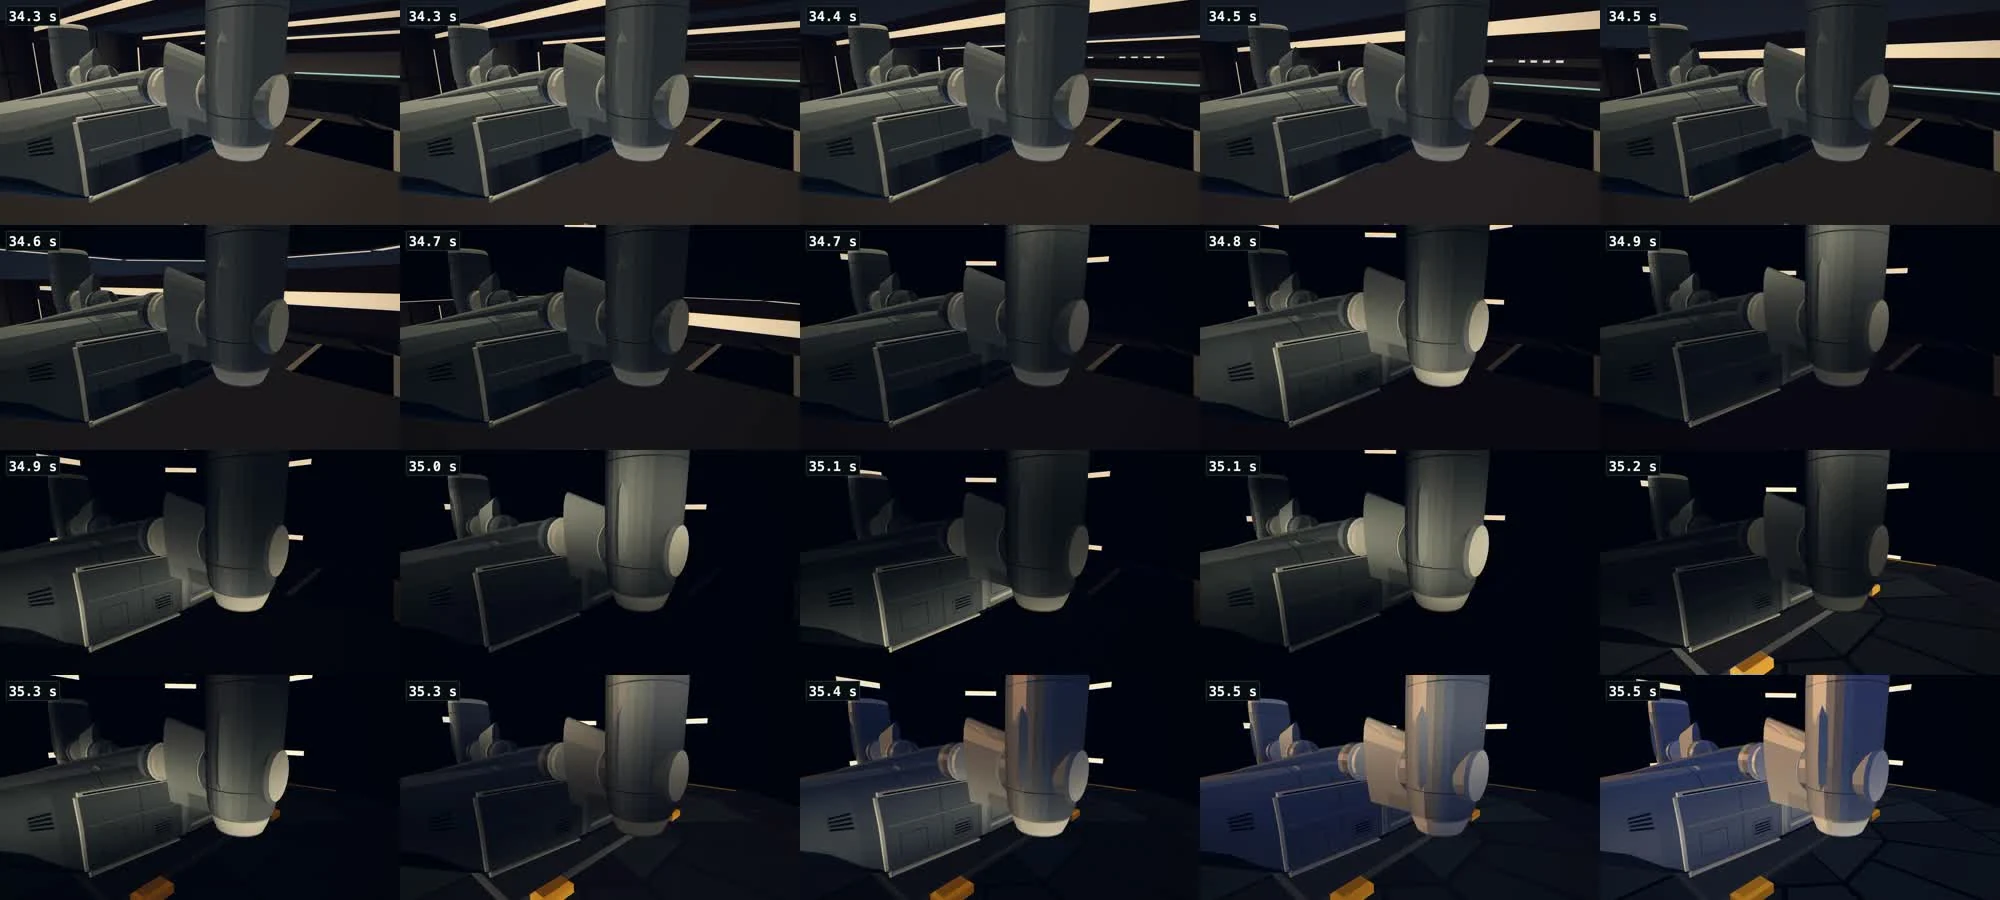
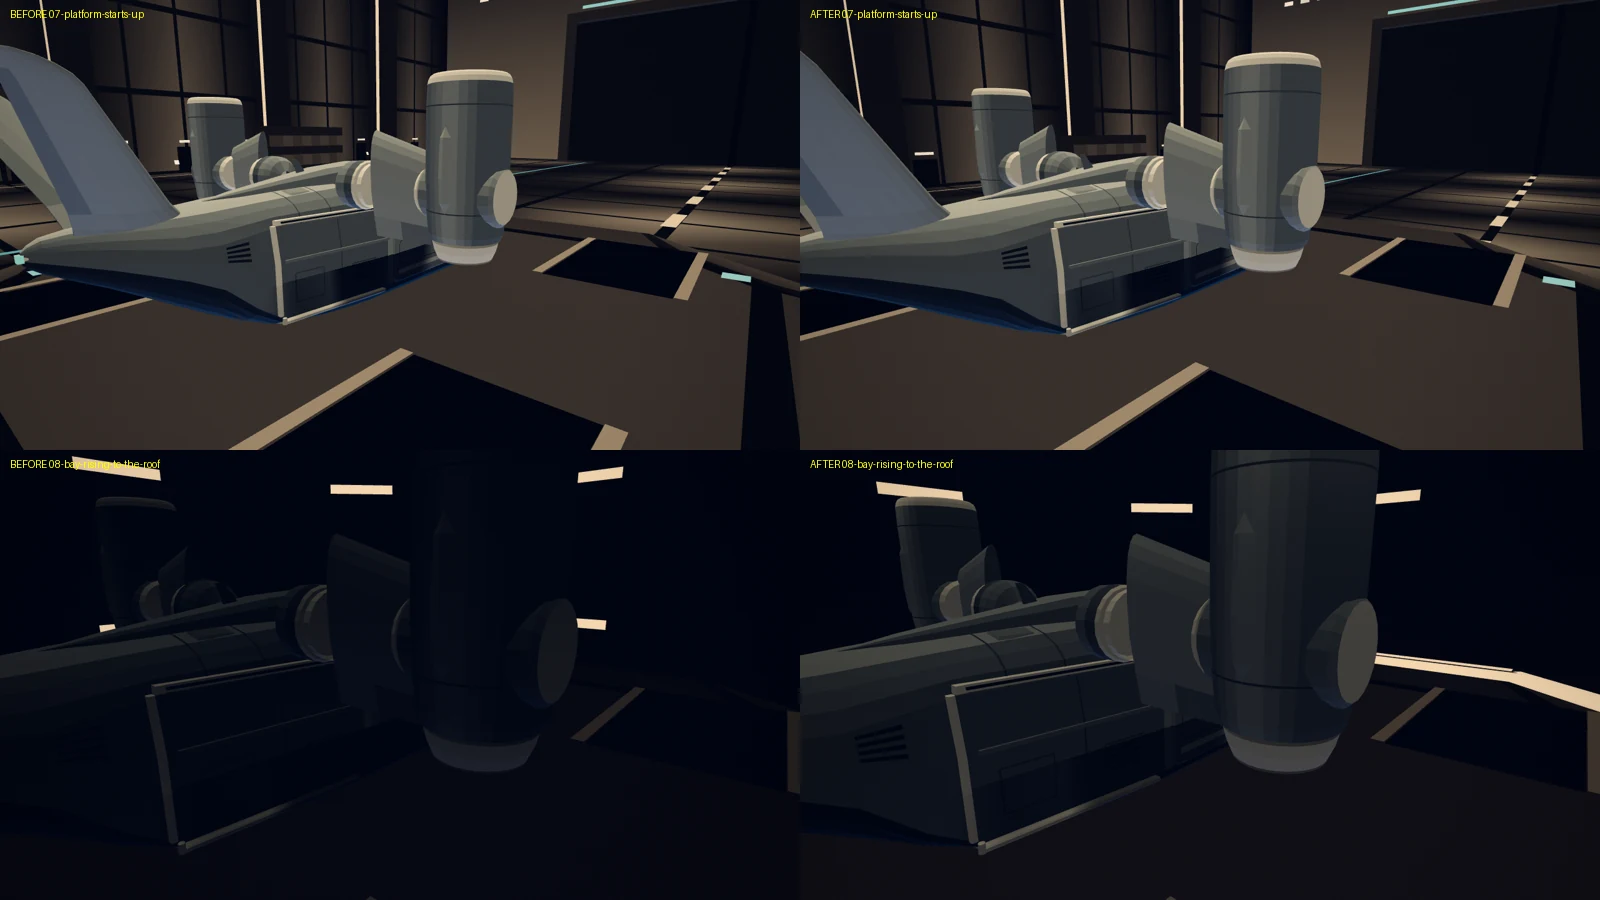
review page v239: Steel Tide: to review

diff --git a/d/steel-tide-clips-bb00109a/index.html b/d/steel-tide-clips-bb00109a/index.html
@@ -4,13 +4,26 @@
 <style>body{margin:0;background:#0d1117;color:#e6edf3;font:16px/1.5 -apple-system,system-ui,sans-serif}main{max-width:900px;margin:0 auto;padding:16px}h1{font-size:20px;margin:8px 0 4px}h2{font-size:17px;margin:34px 0 6px}p{margin:4px 0 10px;color:#9da7b3;font-size:14px}video,img{width:100%;height:auto;background:#000;border-radius:6px;display:block;margin-top:6px}a.b{display:inline-block;margin:8px 8px 0 0;padding:10px 14px;border:1px solid #3d444d;border-radius:6px;color:#e6edf3;text-decoration:none;font-size:14px}.t{font-size:12px;font-weight:400;color:#0d1117;background:#9da7b3;border-radius:10px;padding:2px 8px;margin-left:6px;vertical-align:middle}p.d{color:#7cb7ff;font-size:13px;margin:0 0 6px}nav small{color:#9da7b3;margin-left:6px}p b{color:#e6edf3}nav a{display:block;padding:7px 0;color:#7cb7ff;text-decoration:none;font-size:14px;border-bottom:1px solid #21262d}a.z{display:block;cursor:zoom-in}p.h{font-size:12px;margin:2px 0 8px}#lb{position:fixed;inset:0;background:#000;z-index:9;overflow:auto;display:none;cursor:zoom-in}#lb.on{display:block}#lb img{width:100%;height:100%;object-fit:contain;margin:0;border-radius:0;background:#000}#lb.big{cursor:zoom-out}#lb.big img{width:auto;height:auto;max-width:none;object-fit:none}#lbx{position:fixed;top:10px;right:14px;z-index:10;display:none;font:600 15px system-ui;color:#fff;background:#21262d;border:1px solid #3d444d;border-radius:6px;padding:8px 12px;cursor:pointer}#lb.on+#lbx{display:block}</style></head>
 <body><main>
 <h1>Steel Tide: to review</h1>
-<p>Version 238, 11-21 9:57 PM. Version: elevator lights round 3 (in review); extra hangar Petrels gone (live M408). Newest first. Total 24.9 MB.</p>
-<nav><a href="#lift-passing-lights">Elevator lights light the Petrel as it rises <small>11-21 11:10 PM</small></a><a href="#weapon-icons-round-3">Weapon icons: style A in the game <small>11-21 10:10 PM</small></a><a href="#pilot-gun-clipping">Pilot: carried gun and arms no longer cut into the body (before / after) <small>11-21 10:05 PM</small></a><a href="#hangar-one-petrel">Only your Petrel in the hangar <small>11-21 9:40 PM</small></a><a href="#navy-shell-arc">Navy shells fly one smooth arc <small>11-21 8:37 PM</small></a><a href="#hangar-mech-feet">Hangar mech stands on its cradle <small>11-21 8:37 PM</small></a><a href="#dock-scene-ease">Docking: camera, Petrel glide and lift light <small>11-21 8:37 PM</small></a><a href="#desert-r20-m337-sky">Desert: our sand under yesterday&#x27;s sky <small>11-21 8:37 PM</small></a><a href="#extraction-outro-live">Extraction ending, full outro (live build) <small>11-21 6:35 PM</small></a><a href="#no-black-preload">Mission start: no black screen before the flight <small>11-21 5:05 PM</small></a><a href="#sand-impacts">Desert: shots, landings and footsteps throw up sand <small>11-21 4:55 PM</small></a><a href="#ocean-navy">Ocean navy: fewer, heavier ships; lobbed shells you can see; hull explosions; torpedo wakes <small>11-21 4:47 PM</small></a><a href="#sand-repo-demo">The open-source dune scene we are porting, as it looks in its own demo <small>11-21 4:42 PM</small></a><a href="#roll-chevrons-removed">Old roll and floor dashes removed <small>11-21 2:53 PM</small></a><a href="#unit-ground-shadows">Unit ground shadows back on <small>11-21 1:02 PM</small></a><a href="#pilot-walk-sway">Pilot walk: half the side-to-side sway (before / after) <small>11-21 12:44 PM</small></a><a href="#boss-shading-which-part">Your 8:00 PM report: which part of the boss looked wrong? <small>11-20 10:51 PM</small></a><a href="#new-mech-3d-r2">New mech: first 3D model from your sheet <small>11-19 11:21 PM</small></a><a href="#tactician-r2-s302-clean">Tactician pilot: your pick, smudges cleaned (ready to wire) <small>11-19 10:24 PM</small></a><a href="#vanguard-r2-s302">Vanguard pilot: your pick, six fingers fixed (ready to wire) <small>11-19 10:24 PM</small></a><a href="#cradle-drop-launch-r4">NEEDS YOUR PICK: the drop cannon&#x27;s size on the Cradle (three sizes), with its back hidden and navy colour <small>11-18 7:43 PM</small></a><a href="#horde-pilot-zoom">NEEDS YOUR CALL: island Horde, camera zooms in when you are on foot <small>11-17 1:30 PM</small></a></nav>
-<section id="lift-passing-lights"><h2>Elevator lights light the Petrel as it rises <span class="t">in review</span></h2>
-<p class="d">Updated 11-21 11:10 PM ET &middot; captured from lane build 8a857505c8 (round 3)</p>
-<p><b>What changed:</b> The ship no longer goes black in the lift shaft: each shaft light pulses warm light onto the hull as it passes, the hull keeps its panel lines and paint, and the hangar light fades in instead of popping.</p>
-<p><b>Where to look:</b> Frames 34.8, 35.0 and 35.3 s: the brighter hull as a ring passes; last row: the hangar&#x27;s blue light growing in.</p>
-<a class="z" href="lift-passing-lights-1-full.webp"><img loading="lazy" src="lift-passing-lights-1.webp" alt="Elevator lights light the Petrel as it rises"></a><p class="h">Click the image for full screen, click again for full size.</p></section>
+<p>Version 239, 11-21 11:07 PM. Elevator lights are live (M411). New in review: jet flames that match your visor, and the subtle desert curve. Newest first. Total 25.7 MB.</p>
+<nav><a href="#lift-passing-lights">Elevator lights light the Petrel as it rises <small>11-22 12:40 AM</small></a><a href="#jet-flames-visor">Mech jet flames match your visor color <small>11-22 12:35 AM</small></a><a href="#desert-subtle-roll">Desert floor: a subtle rolling curve <small>11-22 12:30 AM</small></a><a href="#weapon-icons-round-3">Weapon icons: style A in the game <small>11-21 10:10 PM</small></a><a href="#pilot-gun-clipping">Pilot: carried gun and arms no longer cut into the body (before / after) <small>11-21 10:05 PM</small></a><a href="#hangar-one-petrel">Only your Petrel in the hangar <small>11-21 9:40 PM</small></a><a href="#navy-shell-arc">Navy shells fly one smooth arc <small>11-21 8:37 PM</small></a><a href="#hangar-mech-feet">Hangar mech stands on its cradle <small>11-21 8:37 PM</small></a><a href="#dock-scene-ease">Docking: camera, Petrel glide and lift light <small>11-21 8:37 PM</small></a><a href="#desert-r20-m337-sky">Desert: our sand under yesterday&#x27;s sky <small>11-21 8:37 PM</small></a><a href="#extraction-outro-live">Extraction ending, full outro (live build) <small>11-21 6:35 PM</small></a><a href="#no-black-preload">Mission start: no black screen before the flight <small>11-21 5:05 PM</small></a><a href="#sand-impacts">Desert: shots, landings and footsteps throw up sand <small>11-21 4:55 PM</small></a><a href="#ocean-navy">Ocean navy: fewer, heavier ships; lobbed shells you can see; hull explosions; torpedo wakes <small>11-21 4:47 PM</small></a><a href="#sand-repo-demo">The open-source dune scene we are porting, as it looks in its own demo <small>11-21 4:42 PM</small></a><a href="#roll-chevrons-removed">Old roll and floor dashes removed <small>11-21 2:53 PM</small></a><a href="#unit-ground-shadows">Unit ground shadows back on <small>11-21 1:02 PM</small></a><a href="#pilot-walk-sway">Pilot walk: half the side-to-side sway (before / after) <small>11-21 12:44 PM</small></a><a href="#boss-shading-which-part">Your 8:00 PM report: which part of the boss looked wrong? <small>11-20 10:51 PM</small></a><a href="#new-mech-3d-r2">New mech: first 3D model from your sheet <small>11-19 11:21 PM</small></a><a href="#tactician-r2-s302-clean">Tactician pilot: your pick, smudges cleaned (ready to wire) <small>11-19 10:24 PM</small></a><a href="#vanguard-r2-s302">Vanguard pilot: your pick, six fingers fixed (ready to wire) <small>11-19 10:24 PM</small></a><a href="#cradle-drop-launch-r4">NEEDS YOUR PICK: the drop cannon&#x27;s size on the Cradle (three sizes), with its back hidden and navy colour <small>11-18 7:43 PM</small></a><a href="#horde-pilot-zoom">NEEDS YOUR CALL: island Horde, camera zooms in when you are on foot <small>11-17 1:30 PM</small></a></nav>
+<section id="lift-passing-lights"><h2>Elevator lights light the Petrel as it rises <span class="t">live M411</span></h2>
+<p class="d">Updated 11-22 12:40 AM ET &middot; captured from live M411 (lane build 8a857505c8, round 3)</p>
+<p><b>What changed:</b> Now live. The ship no longer goes black in the lift shaft: the shaft lamps light its own paint as it rises and the hangar light fades in. Stills only so far; the clip of the ride is being exported.</p>
+<p><b>Where to look:</b> Bottom row, left (before) against right (after): the hull in the dark shaft. Before it is nearly black; after you can read the panels, vents and engine.</p>
+<a class="z" href="lift-passing-lights-1-full.webp"><img loading="lazy" src="lift-passing-lights-1.webp" alt="Elevator lights light the Petrel as it rises"></a><p class="h">Click the image for full screen, click again for full size.</p>
+<a class="z" href="lift-passing-lights-2-full.webp"><img loading="lazy" src="lift-passing-lights-2.webp" alt="Elevator lights light the Petrel as it rises"></a><p class="h">Click the image for full screen, click again for full size.</p></section>
+<section id="jet-flames-visor"><h2>Mech jet flames match your visor color <span class="t">in review</span></h2>
+<p class="d">Updated 11-22 12:35 AM ET &middot; captured from lane build 5ea84c3056 (round 2)</p>
+<p><b>What changed:</b> The mech jet flames, wake and sparks now take the visor color of your mech (red, yellow and ice blue shown). The body paint change from round 1 is undone. Not live yet: one test still needs updating.</p>
+<p><b>Where to look:</b> Each column is one color pick: compare the thin visor line on the head with the flame color under the back.</p>
+<a class="z" href="jet-flames-visor-1-full.webp"><img loading="lazy" src="jet-flames-visor-1.webp" alt="Mech jet flames match your visor color"></a><p class="h">Click the image for full screen, click again for full size.</p>
+<a class="z" href="jet-flames-visor-2-full.webp"><img loading="lazy" src="jet-flames-visor-2.webp" alt="Mech jet flames match your visor color"></a><p class="h">Click the image for full screen, click again for full size.</p></section>
+<section id="desert-subtle-roll"><h2>Desert floor: a subtle rolling curve <span class="t">in review</span></h2>
+<p class="d">Updated 11-22 12:30 AM ET &middot; captured from lane build 7797815e19</p>
+<p><b>What changed:</b> The open desert floor now rolls gently instead of lying perfectly flat. Bases, outposts and turret pads stay flat. Planner note: from this high camera the curve is hard to see; it should show more at pilot height. A setting under World &gt; Desert floor roll makes it stronger.</p>
+<p><b>Where to look:</b> First picture is the new floor, second is live. Look at the middle distance between the bone arches and the dish tower: the ground rises and dips slightly in the first.</p>
+<a class="z" href="desert-subtle-roll-1-full.webp"><img loading="lazy" src="desert-subtle-roll-1.webp" alt="Desert floor: a subtle rolling curve"></a><p class="h">Click the image for full screen, click again for full size.</p>
+<a class="z" href="desert-subtle-roll-2-full.webp"><img loading="lazy" src="desert-subtle-roll-2.webp" alt="Desert floor: a subtle rolling curve"></a><p class="h">Click the image for full screen, click again for full size.</p></section>
 <section id="weapon-icons-round-3"><h2>Weapon icons: style A in the game <span class="t">live M394</span></h2>
 <p class="d">Updated 11-21 10:10 PM ET &middot; captured from real HUD strip and Loadout screens at 1080p, before and after</p>
 <p><b>What changed:</b> Style A (Stencil) icons replace the old ones for all 12 weapons plus the Hand Cannons (new twin-barrel fist icon): HUD weapon strip, Loadout bar, mech weapon picker. Only the glyphs changed.</p>
